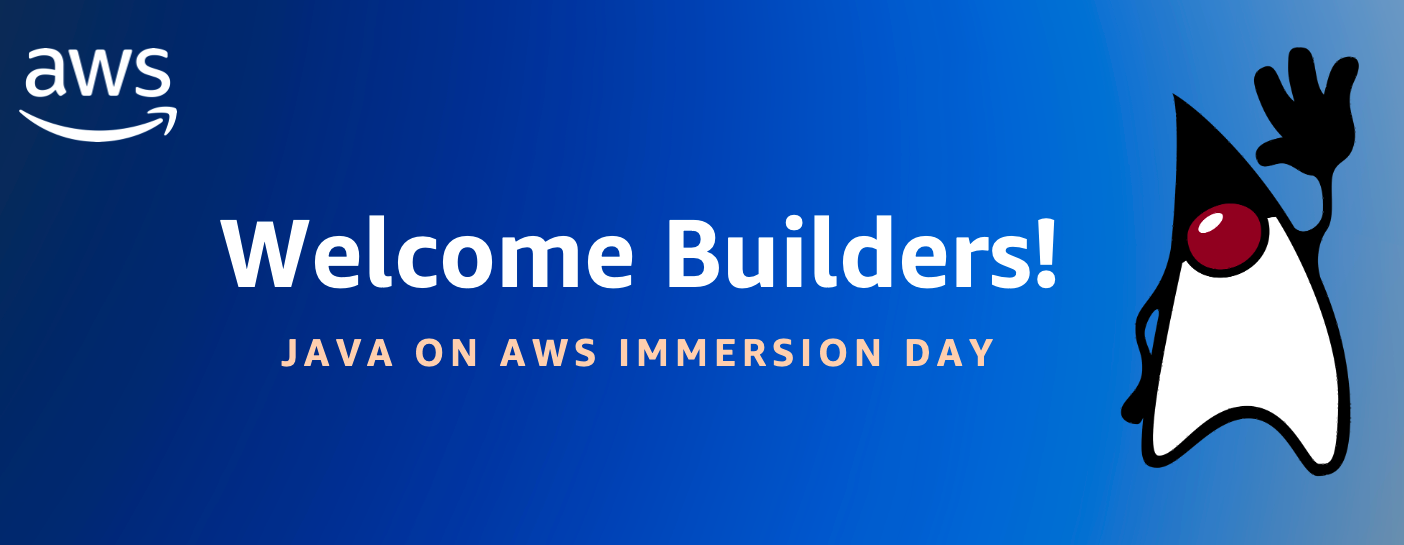
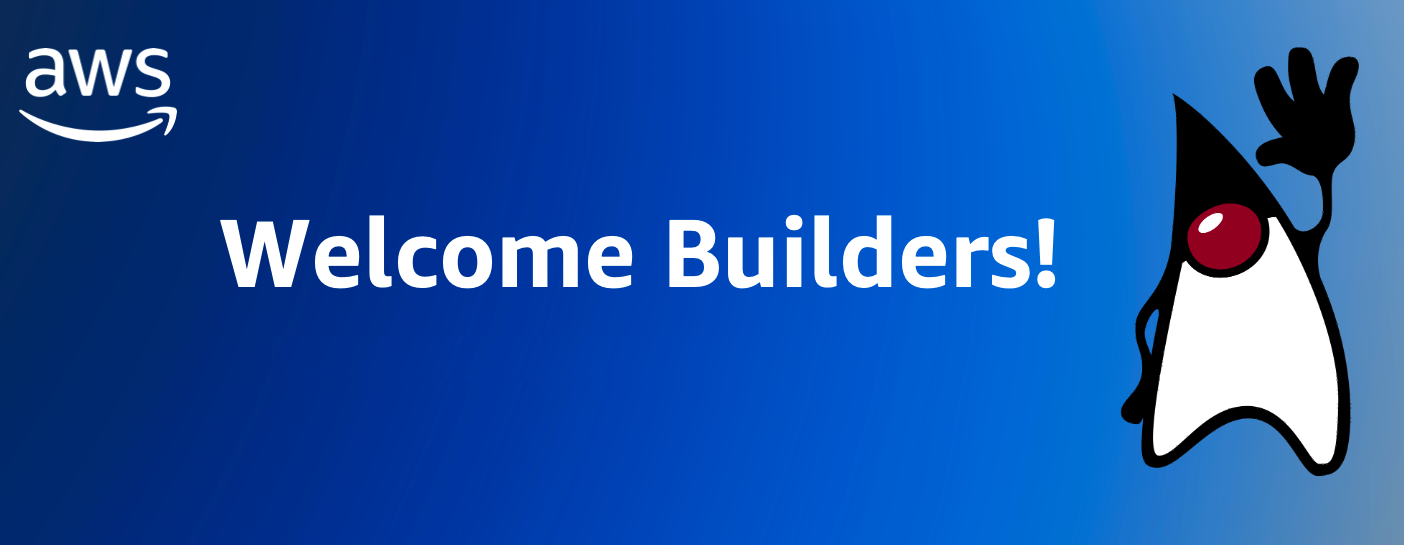
docs: update README with workshop descriptions and links
Add descriptions for all three workshops with focus on container
optimization techniques and AI-powered JVM analysis.
Update welcome image, remove unused paths.png.

Changed region(s): [[0.1838, 0.6239, 0.7044, 0.6862]]

diff --git a/README.md b/README.md
@@ -2,17 +2,67 @@
 
 ![Java on AWS](resources/welcome.png)
 
-This project contains the supporting code for the Java on AWS. You can find the instructions for the hands-on lab [here](https://catalog.workshops.aws/java-on-aws).
+Java remains one of the most widely used programming languages, powering millions of applications from startups to enterprises. This repository contains the source code, infrastructure, and samples supporting a family of hands-on workshops that cover cloud-native Java on containers and AI agent development on AWS.
 
-# Overview
-In this workshop you will learn how to build cloud-native Java applications, best practices and performance optimizations techniques. You will also learn how to migrate your existing Java application to container services such as AWS AppRunner, Amazon ECS and Amazon EKS or how to to run them as Serverless AWS Lambda functions.
+## Java on AWS — Containers
 
-# Modules and paths
-The workshop is structured in multiple independent modules that can be chosen in any kind of order - with a few exceptions that mention a prerequisite of another module. While you can feel free to chose the path to your own preferences, we prepared three example paths through this workshop based on your experience:
+**[catalog.workshops.aws/java-on-aws](https://catalog.workshops.aws/java-on-aws)**
 
-![Java on AWS](resources/paths.png)
+Learn how to build, containerize, optimize, and operate Java applications on Amazon EKS and Amazon ECS — from first container to production-grade deployment.
 
-## Security
+### Container optimization
+
+A core focus of the workshop is reducing startup time, image size, and resource consumption. You'll work through a progression of techniques, measuring the impact of each:
+
+- **Jib** — build images directly to registry without a Dockerfile
+- **Custom JRE** — create minimal Java runtimes with jlink
+- **SOCI** — lazy-load container images, reducing pull times by up to 70%
+- **Class Data Sharing (CDS)** — pre-load classes for faster startup
+- **AOT compilation cache** (Java 25+) — ahead-of-time compiled code for reduced warmup
+- **GraalVM native image** — compile to native executables with instant startup
+- **CRaC** — checkpoint and restore a warmed JVM for sub-second startup
+- **Pod Resize** — boost CPU during startup, scale down after (EKS)
+
+### AI-powered JVM analysis
+
+The workshop includes an AI-driven performance analysis module that uses Amazon Bedrock to automate JVM diagnostics:
+
+- Collect and analyze thread dumps automatically from running containers
+- Generate flamegraphs with async-profiler
+- Get AI-powered performance recommendations based on thread state, lock contention, and resource usage
+- Identify bottlenecks and optimization opportunities without manual analysis
+
+### Additional modules
+
+- **Observability** — CloudWatch Application Signals, OpenTelemetry instrumentation, service maps, logs, metrics, and traces
+- **Graviton/ARM64** — build multi-architecture images and deploy to AWS Graviton for up to 40% better price-performance
+
+## Building Java AI Agents with Spring AI
+
+**[catalog.workshops.aws/java-spring-ai-agents](https://catalog.workshops.aws/java-spring-ai-agents)**
+
+Build AI agents with Spring AI and Amazon Bedrock. This workshop covers the full journey from a simple chat application to a production-ready agent with memory, knowledge bases, tool calling, and MCP integration.
+
+- Integrate foundation models into Java applications using Spring AI
+- Implement conversation memory for stateful interactions
+- Ground model responses in your own data using knowledge bases
+- Enable tool calling for real-time information access
+- Integrate external APIs using Model Context Protocol (MCP)
+- Deploy AI agents to AWS infrastructure
+
+## Building Java AI Agents with Spring AI and Amazon Bedrock AgentCore
+
+**[catalog.workshops.aws/java-spring-ai-agentcore](https://catalog.workshops.aws/java-spring-ai-agentcore)**
+
+Extends the Spring AI workshop with Amazon Bedrock AgentCore — an agentic platform for deploying and operating AI agents at scale. Deploy to AgentCore Runtime (serverless), add persistent memory, browser automation, sandboxed code execution, and API gateway integration.
+
+- Deploy agents to AgentCore Runtime with session isolation and fast cold starts
+- Add short-term and long-term memory with AgentCore Memory
+- Automate web interactions with AgentCore Browser
+- Execute code safely with AgentCore Code Interpreter
+- Convert APIs into MCP-compatible tools with AgentCore Gateway
+
+## Contributing
 
 See [CONTRIBUTING](CONTRIBUTING.md#security-issue-notifications) for more information.
 
